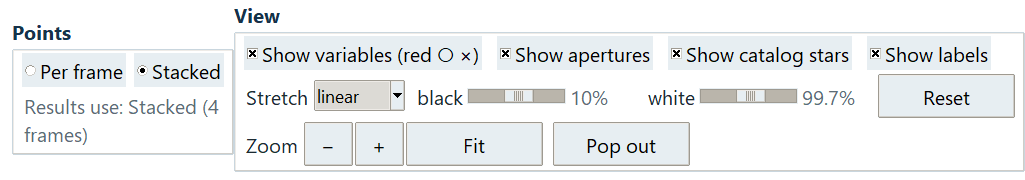
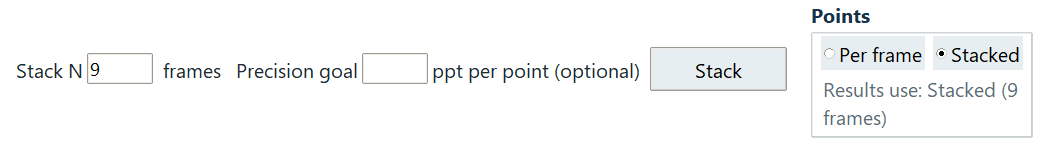
2.3.2 manual: Points box on the Stack row (ch 08, 09, 20, README); third-round reshoots (8 images); shot 1 caption
Claude-Session: https://claude.ai/code/session_01FUz9tGLQbHS6m33mNarraE

diff --git a/stack_ui.py b/stack_ui.py
@@ -1,5 +1,5 @@
 """2.3.0 (#54): the Stack step in the window (all modes): the Photometry page's Stack row (suggestion line, N, the
-optional precision goal, Stack), the Points: Per frame / Stacked switch beside the View box with its "Results use: …"
+optional precision goal, Stack), the Points: Per frame / Stacked switch on the Stack row (2.3.2) with its "Results use: …"
 line, and what follows a switch (Output page, transit fit, reports, series).
 
 A mixin of the App (clearv_app.App): it uses the App's own photometry run, job lock, busy bar, log and pages. The
@@ -517,7 +517,7 @@ class StackMixin:
         words = stack_core.stack_words(run["summary"])
         flagged = sum(1 for o in night_points if o.flag)
         self.log(f"Photometry on the stacks done: {len(night_points)} points ({words}), {flagged} flagged. "
-                 "Points: Stacked is selected; Per frame (beside the View box) switches back.")
+                 "Points: Stacked is selected; Per frame (on the Stack row) switches back.")
         self._stack_seeing_note(run)
         try:
             self.show_step(self.STACK_STEP_OUTPUT)

diff --git a/docs/manual/08-photometry-basics.md b/docs/manual/08-photometry-basics.md
@@ -5,7 +5,7 @@ covers what works the same in every mode: the automatic solve, the image view, m
 photometry, and stacking frames when the comparison stars are weak. Choosing good comparison stars for a variable is
 in chapter 9; transits are in chapters 16 and 17; Discovery's **Scan field** is in chapter 20.
 
-![The Photometry page, with the target, one comparison star and the check star marked](img/08-photometry-solved.jpg)
+![The Photometry page, solved, with the target marked and the Comps step next](img/08-photometry-solved.jpg)
 
 ## The page at a glance
 
@@ -16,12 +16,12 @@ From top to bottom:
   button.
 - **The options row.** On the left, one line under the Target line, the aperture boxes **Aperture r**, **sky in** and
   **sky out**, the **Suggest…** button, **raw sat ADU**, **linear ADU**, and **Also measure R and B (color index;
-  slower)**. On the right, the **View** box. After the first run, a small **Points** box sits just left of the View box
-  (see "Stacking when comps are weak" below). When the window is narrow and the View box moves to a line of its own,
-  the Points box moves with it. Under the aperture boxes, beside the View box, these lines appear only when they have
-  something to say:
+  slower)**. On the right, the **View** box. Under the aperture boxes, beside the View box, these lines appear only
+  when they have something to say (when the window is narrow and the View box moves to a line of its own, they go on
+  that line, left of the View box, if they fit there):
   - **The Stack row** (after the first run only): a suggestion line, then **Stack N** [box] **frames   Precision
-    goal** [box] **ppt per point (optional)** and the **Stack** button.
+    goal** [box] **ppt per point (optional)**, the **Stack** button and the small **Points** box (see "Stacking when
+    comps are weak" below).
   - **The "Measured with" line**: after a run, a gray line says what the photometry was measured with (see
     "Apertures" below).
   - An orange line when the run skipped frames or left a comp out of some frames (see "Comps near the frame edge"
@@ -501,7 +501,7 @@ The line reads (N and the numbers are examples):
 - **Discovery** has no comps, so the line is never orange: *"Stacking (optional): stacks of 6 frames (18 s each); 60
   frames → 10 points. Time cap 5.0 min: a stack hides events faster than itself."*
 
-![The Photometry page after a run with weak comps: the Points box and the Stack row](img/08-stack-row.png)
+![The Photometry page after a run with weak comps: the Stack row with the Points box, beside the View box](img/08-stack-row.png)
 
 ### How N is chosen
 
@@ -540,7 +540,7 @@ same photometry runs on the stacks; in Discovery, the field scan does). The log 
     Stacks made: 200 frames → 10 stacks of 20 frames (effective exposure 40 s); 0.012% of the pixel values
     clipped (cosmic rays, satellite trails, hot pixels); shifts up to 2 px.
     Photometry on the stacks done: 10 points (stacks of 20 frames (effective exposure 40 s)), 0 flagged.
-    Points: Stacked is selected; Per frame (beside the View box) switches back.
+    Points: Stacked is selected; Per frame (on the Stack row) switches back.
 
 When some stacks are short, the log adds *"The last stack of a run (before a flip, a gap, or the end) can be
 partial."* When the field turned inside a stack (an alt-az mount), it adds a note on how far, for example *"Note: the
@@ -574,7 +574,8 @@ After a stack run SHOBS-P goes to the Output page, with **Points: Stacked** sele
 
 ### The Points box: Per frame or Stacked
 
-Once a night has been stacked it has two sets of points. The **Points** box chooses which set is the night's:
+Once a night has been stacked it has two sets of points. The **Points** box, on the Stack row after the **Stack**
+button, chooses which set is the night's:
 
 - **Per frame** and **Stacked** (grayed until there are stacks). Switching is instant.
 - Under them, **Results use: Per frame** or **Results use: Stacked (20 frames)**. The Output page shows the same text
@@ -588,7 +589,7 @@ the series with the chosen set, as a run does. The series keeps only the chosen 
 When a series is loaded or closed, or the night is removed, the Points box goes back to **Per frame** and **Stacked**
 grays out.
 
-![The Points box with Stacked chosen, on a narrow window](img/08-points-stacked.png)
+![The Stack row after Stack: the Points box with Stacked chosen](img/08-points-stacked.png)
 
 ### What the reports say
 

diff --git a/docs/manual/_reshoots_232.md b/docs/manual/_reshoots_232.md
@@ -33,3 +33,20 @@ Checked and reusable (first round): `08-points-stacked.png`, `08-stars-panel.png
 `08-popout-window.jpg`, `17-exoclock-buttons.png` (Results row unchanged),
 `03-window-parts.png`, `02-first-start.png` (its Optics values are the example's typed values, not the install
 defaults), `05-input-page.png`.
+
+## Third round (8 Nov, after John's look at the Stack row)
+
+The Stack, Measured-with and skipped-frames lines follow the View box onto its own line (left of it, when the Stack
+controls fit there whole), and the Points box moved onto the Stack row, after the Stack button. Retaken on the
+example site (40 / −100 / 500 m), window 2409 × 1775:
+
+- `08-photometry-solved.jpg` (SZ Lyn, Bin 2, solved, target marked, Comps step), `20-discovery-photometry.jpg`
+  (NGC 7789 21–22 Oct, solved), `17-transit-fit-page.png` and `17-trim.png` (TOI-2046 b series, night 20–21 Oct;
+  trim 19:16–19:37) — the second-round list.
+- `08-stack-row.png` (HD 219134 2 Nov, r 13 / 20–30, scintillation off: "Comps are weak 4.8×", Stack 9 → 26 points,
+  as in 2.3.0; nothing saved to the series) and `20-discovery-stack-row.png` (NGC 7789, Scan field, stacks of 4 →
+  67 points, as in 2.3.0). Crop: Aperture line to the bottom of the View box.
+- `08-points-stacked.png`: no longer reusable (the Points box moved). HD 219134 2 Nov after Stack (9 frames): the
+  Stack controls and the Points box with Stacked chosen.
+
+OCR: no user name, observer code or real site in any of them.

diff --git a/docs/manual/09-reduce-a-variable-night.md b/docs/manual/09-reduce-a-variable-night.md
@@ -88,7 +88,7 @@ After the run, SHOBS-P may ask more questions:
 
 Then the **Output – Variability** page opens.
 
-**Weak comps?** The Photometry page now shows a Stack row with a suggestion line. When it says *"⚠ Comps are weak …"*, you can press **Stack** there and measure stacks of frames instead of single frames. The **Points** box beside the View box then switches between **Per frame** and **Stacked**, and a **Results use: …** line says which set the Output page, the period search and the reports use. Chapter 8 explains it, under "Stacking when comps are weak". A stack hides changes faster than itself, so SHOBS-P keeps a stack to 1/50 of the VSX period.
+**Weak comps?** The Photometry page now shows a Stack row with a suggestion line. When it says *"⚠ Comps are weak …"*, you can press **Stack** there and measure stacks of frames instead of single frames. The **Points** box on the Stack row then switches between **Per frame** and **Stacked**, and a **Results use: …** line says which set the Output page, the period search and the reports use. Chapter 8 explains it, under "Stacking when comps are weak". A stack hides changes faster than itself, so SHOBS-P keeps a stack to 1/50 of the VSX period.
 
 ## Read the Output page
 

diff --git a/docs/manual/20-scan-a-field.md b/docs/manual/20-scan-a-field.md
@@ -126,7 +126,7 @@ than that.
 To scan the stacks, set **Stack N** and press **Stack**. SHOBS-P makes the stacks, then runs the field scan on them
 instead of the single frames. A scan needs at least 10 stacks; with fewer, **Stack** says *"That makes only K stacks;
 a field scan needs at least 10. Use a smaller N."* The per-frame scan is kept: the **Points** box (**Per frame** /
-**Stacked**) beside the View box switches between the two scans.
+**Stacked**) on the Stack row switches between the two scans.
 
 ![The Discovery Photometry page with the optional Stacking line](img/20-discovery-stack-row.png)
 
